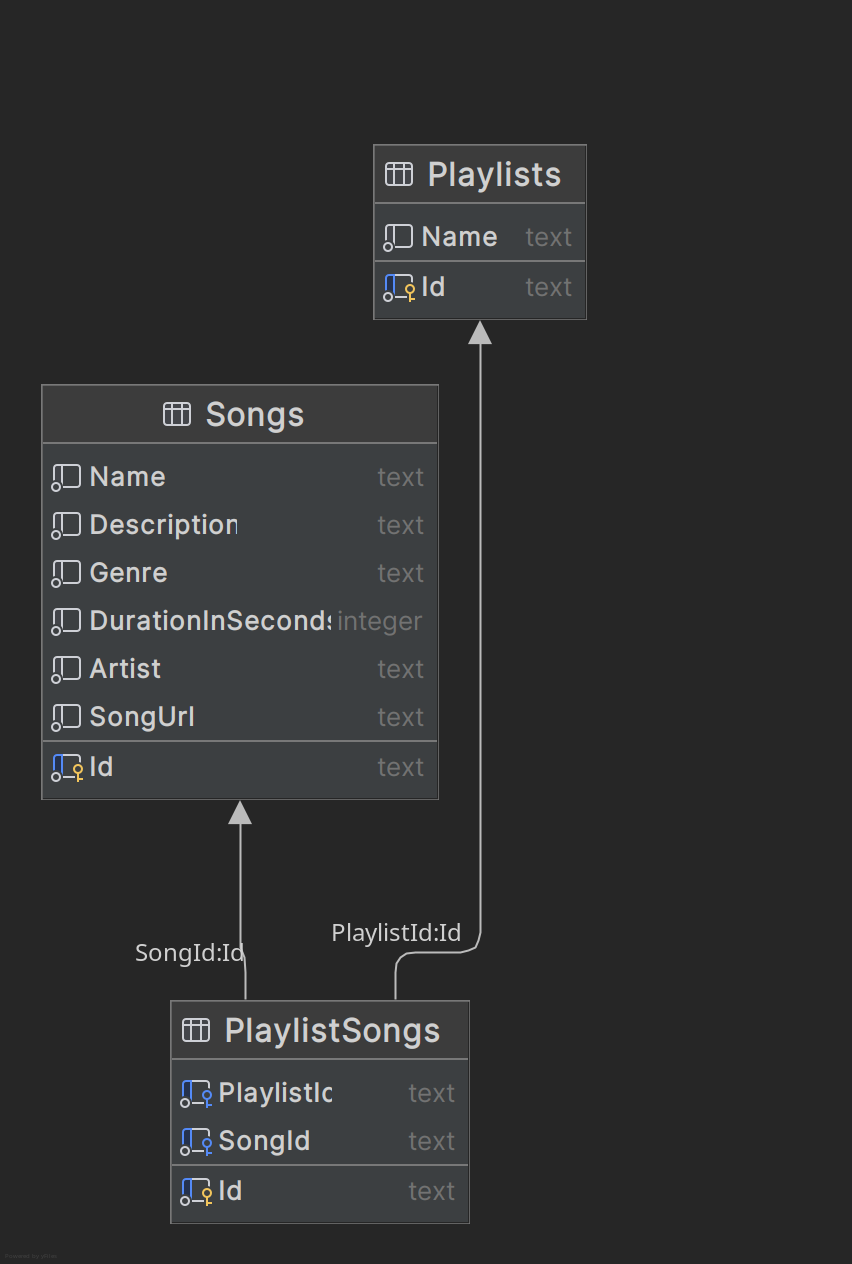
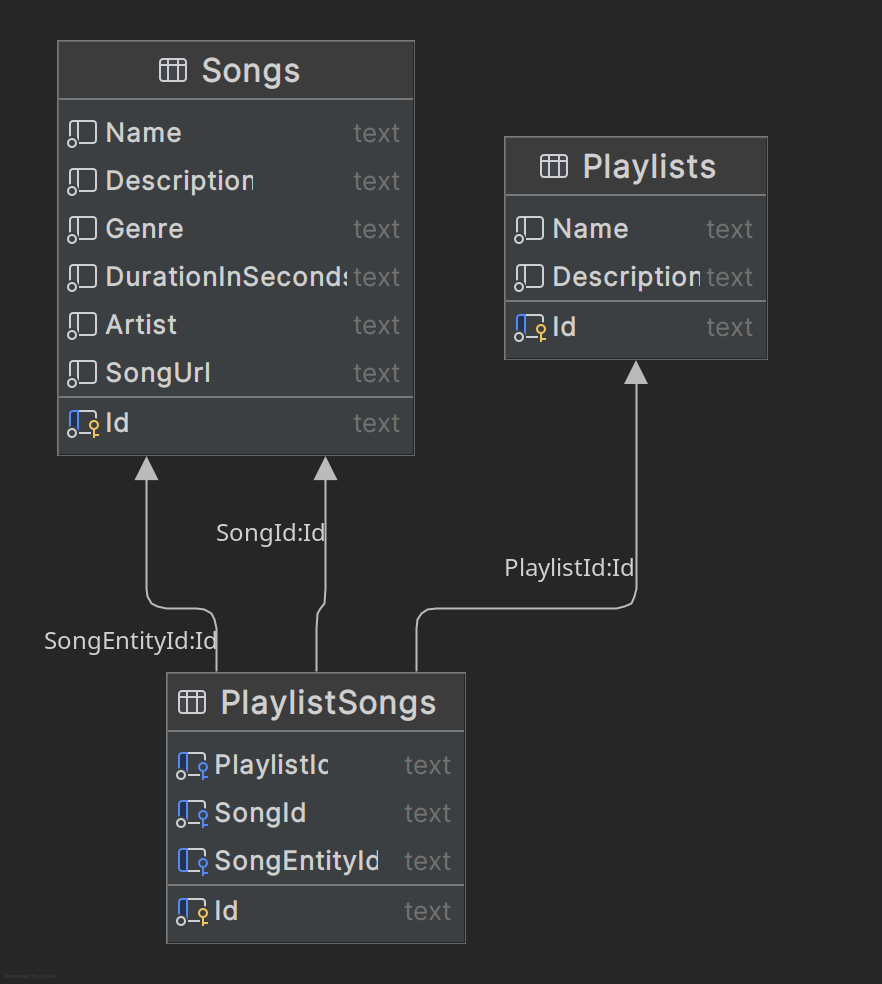
feat: modify Song and Playlist entities, update migration and ER diagram

Changed region(s): [[0.0305, 0.0305, 0.885, 0.9756], [0.061, 0.0305, 0.0915, 0.061]]

diff --git a/ICS_Project.DAL.Tests/PlaylistTests.cs b/ICS_Project.DAL.Tests/PlaylistTests.cs
@@ -21,7 +21,8 @@ public class PlaylistTests(ITestOutputHelper output) : IntegrationTestBase(outpu
         // Arrange
         var playlist = PlaylistSeeds.EmptyPlaylist with
         {
-            Name = "Test Playlist"
+            Name = "Test Playlist",
+            Description = "Some description"
         };
 
         // Act
@@ -41,6 +42,7 @@ public class PlaylistTests(ITestOutputHelper output) : IntegrationTestBase(outpu
         var playlist = PlaylistSeeds.EmptyPlaylist with
         {
             Name = "Workout Mix",
+            Description = "Hype up your workout with these songs!",
             PlaylistSongs = new List<PlaylistSongEntity>
             {
                 PlaylistSongSeeds.EmptyPlaylistSong with
@@ -50,7 +52,7 @@ public class PlaylistTests(ITestOutputHelper output) : IntegrationTestBase(outpu
                         Name = "Eye of the Tiger",
                         Description = "Eye of the Tiger by Survivor",
                         Artist = "Survivor",
-                        DurationInSeconds = 245,
+                        DurationInSeconds = TimeSpan.FromSeconds(245),
                         Genre = "Rock",
                         SongUrl = "https://example.com/eye_of_the_tiger.mp3"
                     }
@@ -62,7 +64,7 @@ public class PlaylistTests(ITestOutputHelper output) : IntegrationTestBase(outpu
                         Name = "Lose Yourself",
                         Description = "Song by Eminem",
                         Artist = "Eminem",
-                        DurationInSeconds = 326,
+                        DurationInSeconds = TimeSpan.FromSeconds(326),
                         Genre = "Hip-Hop",
                         SongUrl = "https://example.com/lose_yourself.mp3"
                     }
@@ -91,6 +93,7 @@ public class PlaylistTests(ITestOutputHelper output) : IntegrationTestBase(outpu
         var playlist = PlaylistSeeds.EmptyPlaylist with
         {
             Name = "Test Playlist",
+            Description = "test description",
             PlaylistSongs = new List<PlaylistSongEntity>
             {
                 PlaylistSongSeeds.EmptyPlaylistSong with

diff --git a/ICS_Project.Common.Tests/Seeds/SongSeeds.cs b/ICS_Project.Common.Tests/Seeds/SongSeeds.cs
@@ -22,7 +22,7 @@ public static class SongSeeds
         Name = "Hotel California",
         Description = "Welcome to the Hotel California",
         Genre = "Rock",
-        DurationInSeconds = 390,
+        DurationInSeconds = TimeSpan.FromSeconds(390),
         Artist = "Eagles",
         SongUrl = "someUrl.com"
     };
@@ -36,7 +36,7 @@ public static class SongSeeds
         Name = "Shape of You",
         Description = "The club isn't the best place to find a lover",
         Genre = "Pop",
-        DurationInSeconds = 233,
+        DurationInSeconds = TimeSpan.FromSeconds(233),
         Artist = "Ed Sheeran",
         SongUrl = "someUrl.com"
     };
@@ -47,7 +47,7 @@ public static class SongSeeds
         Name = "Billie Jean",
         Description = "Billie Jean is not my lover",
         Genre = "Pop",
-        DurationInSeconds = 294,
+        DurationInSeconds = TimeSpan.FromSeconds(294),
         Artist = "Michael Jackson",
         SongUrl = "someUrl.com"
     };

diff --git a/ICS_Project.Common.Tests/Seeds/PlaylistSeeds.cs b/ICS_Project.Common.Tests/Seeds/PlaylistSeeds.cs
@@ -9,12 +9,14 @@ public static class PlaylistSeeds
     {
         Id = default,
         Name = default!,
+        Description = default!,
     };
     
     public static readonly PlaylistEntity PopPlaylist = new()
     {
         Id = Guid.Parse("3166a30b-36d0-430a-90cd-bed126670147"),
         Name = "Pop",
+        Description = "My favorite pop songs",
     };
     
     public static readonly PlaylistEntity PopPlaylistWithNoSongs = PopPlaylist with { Id = Guid.Parse("1244a30b-36d0-430a-90cd-bed126670148"), PlaylistSongs = new List<PlaylistSongEntity>()};

diff --git a/ICS_Project.DAL.Tests/SongTests.cs b/ICS_Project.DAL.Tests/SongTests.cs
@@ -21,7 +21,7 @@ public class SongTests(ITestOutputHelper output) : IntegrationTestBase(output)
             Name = "Test Song",
             Description = "Test Song Description",
             Genre = "Test Genre",
-            DurationInSeconds = 300,
+            DurationInSeconds = TimeSpan.FromSeconds(300),
             Artist = "Test Artist",
             SongUrl = "https://example.com/test_song.mp3"
         };

diff --git a/ICS_Project.DAL/Entities/SongEntity.cs b/ICS_Project.DAL/Entities/SongEntity.cs
@@ -8,7 +8,7 @@ public record SongEntity: IEntity
     public required string Name { get; set; }
     public required string Description { get; set; }
     public required string Genre { get; set; }
-    public int DurationInSeconds { get; set; }
+    public TimeSpan DurationInSeconds { get; set; }
     public required string Artist { get; set; }
     public required string SongUrl { get; set; }
     

diff --git a/ICS_Project.DAL/Entities/PlaylistEntity.cs b/ICS_Project.DAL/Entities/PlaylistEntity.cs
@@ -6,5 +6,6 @@ public record PlaylistEntity : IEntity
 {
     public Guid Id { get; init; }
     public required string Name { get; set; }
+    public required string Description { get; set; }
     public ICollection<PlaylistSongEntity> PlaylistSongs { get; init; } = new List<PlaylistSongEntity>();
 }
